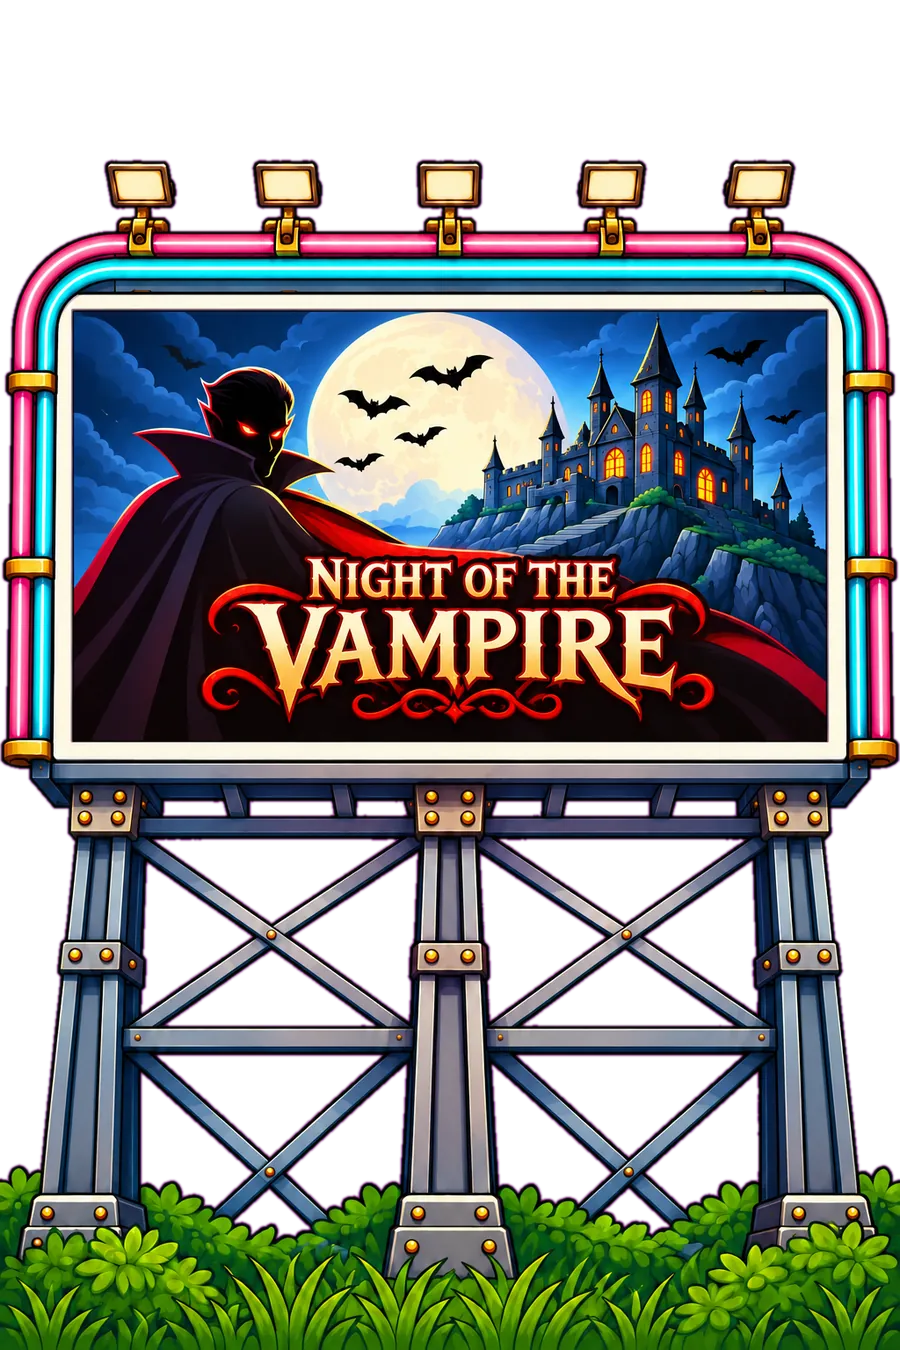
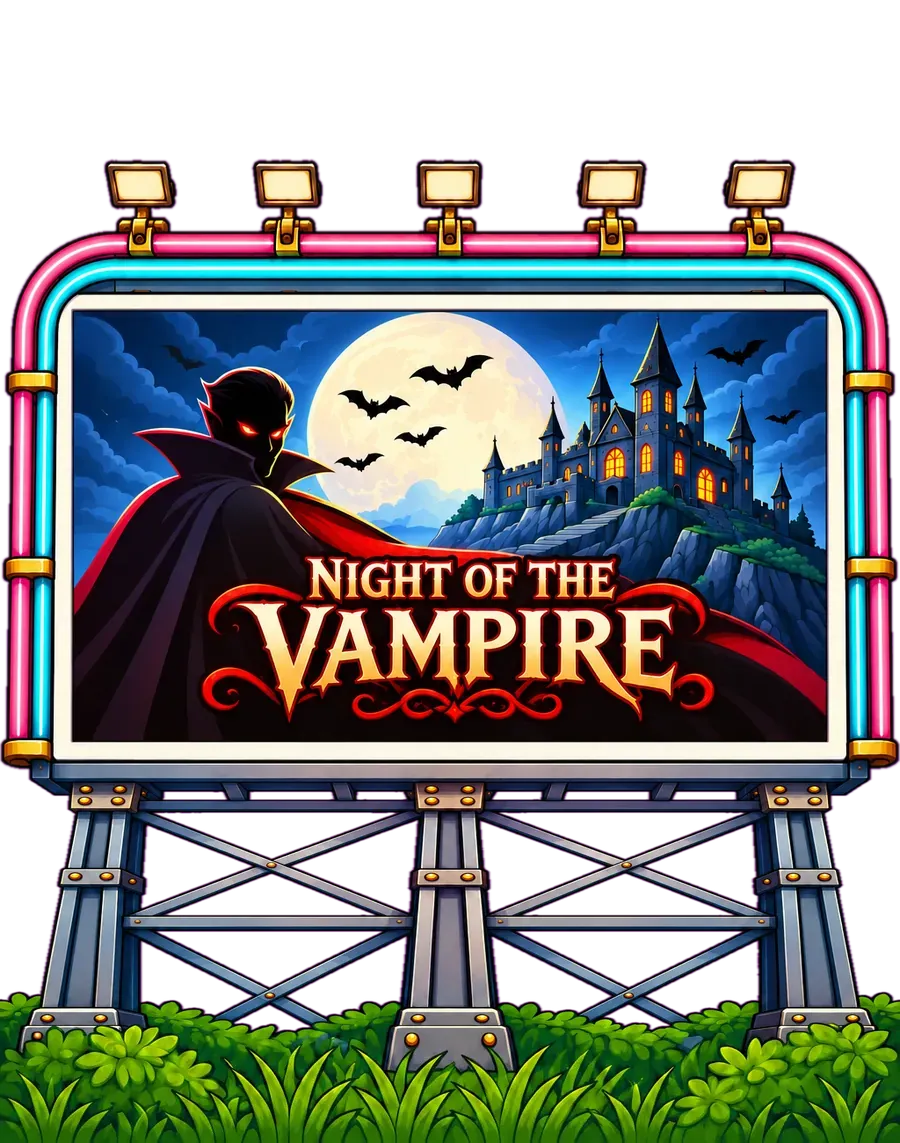
Drive-In: stable car facing, spaced cars, shorter screen legs, bats and a driving car
Claude-Session: https://claude.ai/code/session_01LfmF5cxUUBcpb9MQqZTHNz

diff --git a/scripts/shorten-drivein-screen.py b/scripts/shorten-drivein-screen.py
@@ -1,0 +1,9 @@
+# Squash the metal legs of the drive-in screen picture so the screen sits lower (run on the tall original).
+from PIL import Image
+src='art-source/drivein-screen-tall-original.webp'; out='anim/scenery/drivein-screen.webp'
+im=Image.open(src).convert('RGBA'); W,H=im.size
+a,b,k=780,1240,0.55
+top=im.crop((0,0,W,a)); mid=im.crop((0,a,W,b)).resize((W,int((b-a)*k)),Image.LANCZOS); bot=im.crop((0,b,W,H))
+n=Image.new('RGBA',(W,a+mid.height+bot.height),(0,0,0,0))
+n.paste(top,(0,0)); n.paste(mid,(0,a)); n.paste(bot,(0,a+mid.height)); n.save(out,'WEBP',quality=80)
+print(n.size, 'height ratio', n.height/H)
